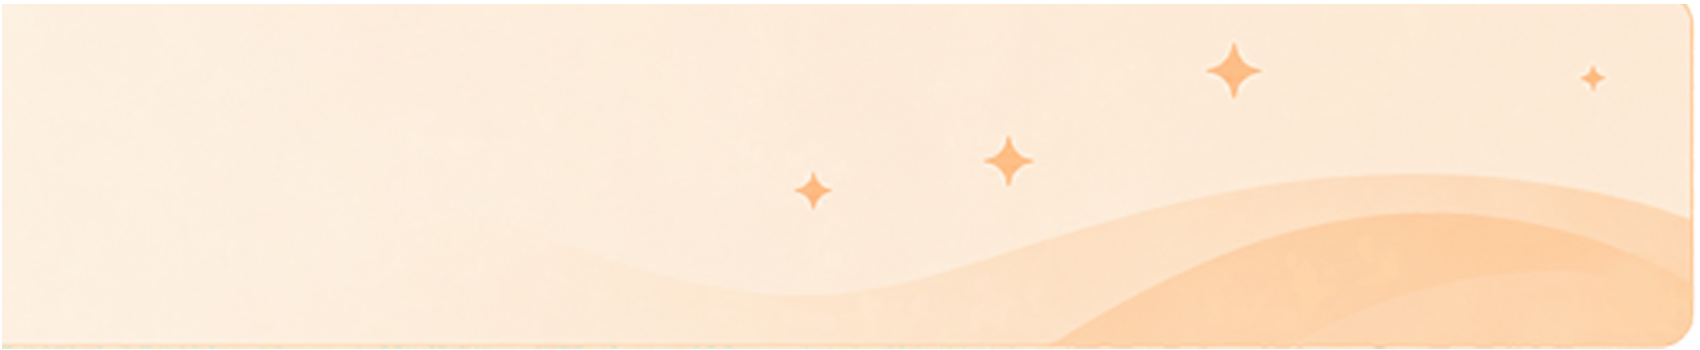
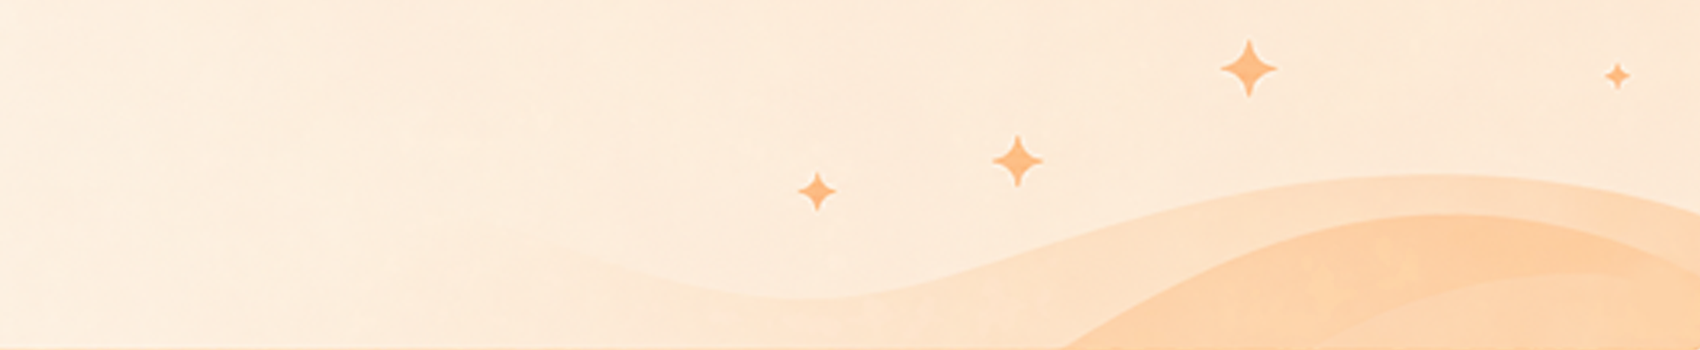
优化会员中心——修复年度会员中心

diff --git a/src/FocusApp.Desktop/Views/MembershipCenterModal.xaml b/src/FocusApp.Desktop/Views/MembershipCenterModal.xaml
@@ -51,6 +51,14 @@
             <Setter Property="FontWeight" Value="Normal" />
             <Setter Property="Foreground" Value="{DynamicResource TextSecondary}" />
         </Style>
+
+        <Style x:Key="AnnualMembershipBenefitCard" TargetType="{x:Type Border}">
+            <Setter Property="Margin" Value="4" />
+            <Setter Property="Background" Value="{DynamicResource SurfacePrimary}" />
+            <Setter Property="BorderBrush" Value="{DynamicResource BorderPrimary}" />
+            <Setter Property="BorderThickness" Value="1" />
+            <Setter Property="CornerRadius" Value="11" />
+        </Style>
     </UserControl.Resources>
 
     <Border Background="{DynamicResource SurfacePrimary}"
@@ -61,7 +69,18 @@
             <DropShadowEffect BlurRadius="28" Direction="270" Opacity="0.12" ShadowDepth="4" Color="#A9937D" />
         </Border.Effect>
 
-        <Grid Margin="28,14,28,18">
+        <Grid>
+        <Grid x:Name="LifetimeMembershipContent" Margin="28,14,28,18">
+            <Grid.Style>
+                <Style TargetType="{x:Type Grid}">
+                    <Setter Property="Visibility" Value="Collapsed" />
+                    <Style.Triggers>
+                        <DataTrigger Binding="{Binding IsLifetime}" Value="True">
+                            <Setter Property="Visibility" Value="Visible" />
+                        </DataTrigger>
+                    </Style.Triggers>
+                </Style>
+            </Grid.Style>
             <Grid.RowDefinitions>
                 <RowDefinition Height="32" />
                 <RowDefinition Height="118" />
@@ -211,6 +230,171 @@
                     </Grid>
                 </Border>
             </UniformGrid>
+        </Grid>
+
+        <Grid x:Name="AnnualMembershipContent" Margin="36,12">
+            <Grid.Style>
+                <Style TargetType="{x:Type Grid}">
+                    <Setter Property="Visibility" Value="Collapsed" />
+                    <Style.Triggers>
+                        <DataTrigger Binding="{Binding IsAnnual}" Value="True">
+                            <Setter Property="Visibility" Value="Visible" />
+                        </DataTrigger>
+                    </Style.Triggers>
+                </Style>
+            </Grid.Style>
+            <Grid.RowDefinitions>
+                <RowDefinition Height="34" />
+                <RowDefinition Height="88" />
+                <RowDefinition Height="Auto" />
+                <RowDefinition Height="28" />
+                <RowDefinition Height="*" />
+            </Grid.RowDefinitions>
+
+            <TextBlock VerticalAlignment="Center"
+                       FontSize="17"
+                       FontWeight="SemiBold"
+                       Foreground="{DynamicResource TextPrimary}"
+                       Text="{DynamicResource MembershipCenterTitle}" />
+
+            <Border Grid.Row="1"
+                    Margin="0,2,0,0"
+                    Background="{DynamicResource AccentTint}"
+                    BorderBrush="#FFE1C4"
+                    BorderThickness="1"
+                    CornerRadius="14">
+                <Grid Margin="18,0">
+                    <Grid.ColumnDefinitions>
+                        <ColumnDefinition Width="72" />
+                        <ColumnDefinition />
+                        <ColumnDefinition Width="170" />
+                    </Grid.ColumnDefinitions>
+
+                    <Border Width="48" Height="48" Background="#FFF3E5" CornerRadius="24">
+                        <TextBlock HorizontalAlignment="Center"
+                                   VerticalAlignment="Center"
+                                   FontFamily="Segoe UI Symbol"
+                                   FontSize="31"
+                                   Foreground="{DynamicResource AccentPrimary}"
+                                   Text="♛" />
+                    </Border>
+
+                    <StackPanel Grid.Column="1" Margin="9,0,0,0" VerticalAlignment="Center">
+                        <TextBlock FontSize="15"
+                                   FontWeight="Medium"
+                                   Foreground="{DynamicResource TextPrimary}"
+                                   Text="{DynamicResource MembershipAnnualTitle}" />
+                        <TextBlock Margin="0,6,0,0"
+                                   FontSize="12"
+                                   Foreground="{DynamicResource TextSecondary}"
+                                   Text="{DynamicResource MembershipUnlockedHint}" />
+                    </StackPanel>
+
+                    <StackPanel Grid.Column="2" HorizontalAlignment="Right" VerticalAlignment="Center">
+                        <TextBlock HorizontalAlignment="Center"
+                                   FontSize="12"
+                                   Foreground="{DynamicResource TextSecondary}"
+                                   Text="{DynamicResource MembershipExpiryLabel}" />
+                        <TextBlock Margin="0,5,0,0"
+                                   FontSize="13"
+                                   FontWeight="Medium"
+                                   Foreground="{DynamicResource TextPrimary}"
+                                   Text="{DynamicResource MembershipExpiryDate}" />
+                    </StackPanel>
+                </Grid>
+            </Border>
+
+            <Border Grid.Row="2"
+                    Height="58"
+                    Margin="0,8,0,0"
+                    Background="{DynamicResource SurfacePrimary}"
+                    BorderBrush="{DynamicResource BorderPrimary}"
+                    BorderThickness="1"
+                    CornerRadius="13">
+                <Grid Margin="17,0">
+                    <Grid.ColumnDefinitions>
+                        <ColumnDefinition Width="54" />
+                        <ColumnDefinition />
+                        <ColumnDefinition Width="1" />
+                        <ColumnDefinition Width="146" />
+                    </Grid.ColumnDefinitions>
+                    <Border Width="36" Height="36" Background="#FFF3E5" CornerRadius="18">
+                        <TextBlock HorizontalAlignment="Center"
+                                   VerticalAlignment="Center"
+                                   FontFamily="Segoe MDL2 Assets"
+                                   FontSize="21"
+                                   Foreground="{DynamicResource AccentPrimary}"
+                                   Text="&#xE823;" />
+                    </Border>
+                    <StackPanel Grid.Column="1" VerticalAlignment="Center" Orientation="Horizontal">
+                        <TextBlock VerticalAlignment="Center" FontSize="13" Foreground="{DynamicResource TextSecondary}" Text="{DynamicResource MembershipDaysPrefix}" />
+                        <TextBlock Margin="18,0,0,0" VerticalAlignment="Center" FontSize="20" FontWeight="SemiBold" Foreground="{DynamicResource AccentPrimary}" Text="{DynamicResource MembershipDaysValue}" />
+                        <TextBlock Margin="8,7,0,0" VerticalAlignment="Center" FontSize="12" Foreground="{DynamicResource TextSecondary}" Text="{DynamicResource MembershipDaysUnit}" />
+                    </StackPanel>
+                    <Border Grid.Column="2" Height="42" VerticalAlignment="Center" Background="{DynamicResource BorderPrimary}" />
+                    <Button Grid.Column="3"
+                            Width="126"
+                            Height="36"
+                            HorizontalAlignment="Right"
+                            AutomationProperties.Name="{DynamicResource MembershipRenew}"
+                            Command="{Binding RenewCommand}">
+                        <Button.Template>
+                            <ControlTemplate TargetType="{x:Type Button}">
+                                <Border x:Name="Root" Background="{DynamicResource FocusButtonBackground}" CornerRadius="10">
+                                    <ContentPresenter HorizontalAlignment="Center" VerticalAlignment="Center" />
+                                </Border>
+                                <ControlTemplate.Triggers>
+                                    <Trigger Property="IsMouseOver" Value="True"><Setter TargetName="Root" Property="Background" Value="{DynamicResource FocusButtonHoverBackground}" /></Trigger>
+                                    <Trigger Property="IsPressed" Value="True"><Setter TargetName="Root" Property="Background" Value="{DynamicResource FocusButtonPressedBackground}" /></Trigger>
+                                </ControlTemplate.Triggers>
+                            </ControlTemplate>
+                        </Button.Template>
+                        <TextBlock FontSize="13" FontWeight="Medium" Foreground="{DynamicResource WhiteText}">
+                            <TextBlock.Style>
+                                <Style TargetType="{x:Type TextBlock}">
+                                    <Setter Property="Text" Value="{DynamicResource MembershipRenew}" />
+                                    <Style.Triggers>
+                                        <DataTrigger Binding="{Binding HasRenewFeedback}" Value="True">
+                                            <Setter Property="Text" Value="{DynamicResource MembershipRenewFeedback}" />
+                                            <Setter Property="FontSize" Value="12" />
+                                        </DataTrigger>
+                                    </Style.Triggers>
+                                </Style>
+                            </TextBlock.Style>
+                        </TextBlock>
+                    </Button>
+                </Grid>
+            </Border>
+
+            <TextBlock Grid.Row="3"
+                       Margin="0,8,0,0"
+                       VerticalAlignment="Center"
+                       FontSize="15"
+                       FontWeight="Medium"
+                       Foreground="{DynamicResource TextPrimary}"
+                       Text="{DynamicResource MembershipBenefitsTitle}" />
+
+            <UniformGrid Grid.Row="4" Height="160" Margin="0,2,0,0" VerticalAlignment="Top" Columns="3" Rows="2">
+                <Border Style="{StaticResource AnnualMembershipBenefitCard}">
+                    <Grid Margin="12,7"><Grid.ColumnDefinitions><ColumnDefinition Width="42" /><ColumnDefinition /></Grid.ColumnDefinitions><Border Width="36" Height="36" Background="#FFF3E5" CornerRadius="18"><TextBlock HorizontalAlignment="Center" VerticalAlignment="Center" FontFamily="Segoe MDL2 Assets" FontSize="19" Foreground="{DynamicResource AccentPrimary}" Text="&#xE72E;" /></Border><StackPanel Grid.Column="1" VerticalAlignment="Center"><TextBlock FontSize="13" FontWeight="Medium" Foreground="{DynamicResource TextPrimary}" Text="{DynamicResource MembershipBenefitForced}" /><TextBlock Margin="0,5,0,0" FontSize="12" LineHeight="18" Foreground="{DynamicResource TextSecondary}" Text="{DynamicResource MembershipBenefitForcedHint}" /></StackPanel></Grid>
+                </Border>
+                <Border Style="{StaticResource AnnualMembershipBenefitCard}">
+                    <Grid Margin="12,7"><Grid.ColumnDefinitions><ColumnDefinition Width="42" /><ColumnDefinition /></Grid.ColumnDefinitions><Border Width="36" Height="36" Background="#FFF3E5" CornerRadius="18"><TextBlock HorizontalAlignment="Center" VerticalAlignment="Center" FontFamily="Segoe MDL2 Assets" FontSize="19" Foreground="{DynamicResource AccentPrimary}" Text="&#xEA18;" /></Border><StackPanel Grid.Column="1" VerticalAlignment="Center"><TextBlock FontSize="13" FontWeight="Medium" Foreground="{DynamicResource TextPrimary}" Text="{DynamicResource MembershipBenefitBlocking}" /><TextBlock Margin="0,5,0,0" FontSize="12" LineHeight="18" Foreground="{DynamicResource TextSecondary}" Text="{DynamicResource MembershipBenefitBlockingHint}" /></StackPanel></Grid>
+                </Border>
+                <Border Style="{StaticResource AnnualMembershipBenefitCard}">
+                    <Grid Margin="12,7"><Grid.ColumnDefinitions><ColumnDefinition Width="42" /><ColumnDefinition /></Grid.ColumnDefinitions><Border Width="36" Height="36" Background="#FFF3E5" CornerRadius="18"><TextBlock HorizontalAlignment="Center" VerticalAlignment="Center" FontFamily="Segoe MDL2 Assets" FontSize="19" Foreground="{DynamicResource AccentPrimary}" Text="&#xE8A5;" /></Border><StackPanel Grid.Column="1" VerticalAlignment="Center"><TextBlock FontSize="13" FontWeight="Medium" Foreground="{DynamicResource TextPrimary}" Text="{DynamicResource MembershipBenefitExport}" /><TextBlock Margin="0,5,0,0" FontSize="12" LineHeight="18" Foreground="{DynamicResource TextSecondary}" Text="{DynamicResource MembershipBenefitExportHint}" /></StackPanel></Grid>
+                </Border>
+                <Border Style="{StaticResource AnnualMembershipBenefitCard}">
+                    <Grid Margin="12,7"><Grid.ColumnDefinitions><ColumnDefinition Width="42" /><ColumnDefinition /></Grid.ColumnDefinitions><Border Width="36" Height="36" Background="#FFF3E5" CornerRadius="18"><TextBlock HorizontalAlignment="Center" VerticalAlignment="Center" FontFamily="Segoe MDL2 Assets" FontSize="19" Foreground="{DynamicResource AccentPrimary}" Text="&#xE9D2;" /></Border><StackPanel Grid.Column="1" VerticalAlignment="Center"><TextBlock FontSize="13" FontWeight="Medium" Foreground="{DynamicResource TextPrimary}" Text="{DynamicResource MembershipBenefitStatistics}" /><TextBlock Margin="0,5,0,0" FontSize="12" LineHeight="18" Foreground="{DynamicResource TextSecondary}" Text="{DynamicResource MembershipBenefitStatisticsHint}" /></StackPanel></Grid>
+                </Border>
+                <Border Style="{StaticResource AnnualMembershipBenefitCard}">
+                    <Grid Margin="12,7"><Grid.ColumnDefinitions><ColumnDefinition Width="42" /><ColumnDefinition /></Grid.ColumnDefinitions><Border Width="36" Height="36" Background="#FFF3E5" CornerRadius="18"><TextBlock HorizontalAlignment="Center" VerticalAlignment="Center" FontFamily="Segoe MDL2 Assets" FontSize="19" Foreground="{DynamicResource AccentPrimary}" Text="&#xE790;" /></Border><StackPanel Grid.Column="1" VerticalAlignment="Center"><TextBlock FontSize="13" FontWeight="Medium" Foreground="{DynamicResource TextPrimary}" Text="{DynamicResource MembershipBenefitThemes}" /><TextBlock Margin="0,5,0,0" FontSize="12" LineHeight="18" Foreground="{DynamicResource TextSecondary}" Text="{DynamicResource MembershipBenefitThemesHint}" /></StackPanel></Grid>
+                </Border>
+                <Border Style="{StaticResource AnnualMembershipBenefitCard}">
+                    <Grid Margin="12,7"><Grid.ColumnDefinitions><ColumnDefinition Width="42" /><ColumnDefinition /></Grid.ColumnDefinitions><Border Width="36" Height="36" Background="#FFF3E5" CornerRadius="18"><TextBlock HorizontalAlignment="Center" VerticalAlignment="Center" FontFamily="Segoe MDL2 Assets" FontSize="19" Foreground="{DynamicResource AccentPrimary}" Text="&#xE753;" /></Border><StackPanel Grid.Column="1" VerticalAlignment="Center"><TextBlock FontSize="13" FontWeight="Medium" Foreground="{DynamicResource TextPrimary}" Text="{DynamicResource MembershipBenefitSync}" /><TextBlock Margin="0,5,0,0" FontSize="12" LineHeight="18" Foreground="{DynamicResource TextSecondary}" Text="{DynamicResource MembershipBenefitSyncHint}" /></StackPanel></Grid>
+                </Border>
+            </UniformGrid>
+        </Grid>
         </Grid>
     </Border>
 </UserControl>

diff --git a/tests/FocusApp.Tests/Desktop/MembershipCenterPresentationTests.cs b/tests/FocusApp.Tests/Desktop/MembershipCenterPresentationTests.cs
@@ -31,7 +31,10 @@ public sealed class MembershipCenterPresentationTests
         AssertImage(view, "MemberCenter_Crown.png", "54", "54");
         AssertImage(view, "MenberCenter_check.png", "20", "20");
 
-        var benefits = Assert.Single(view.Descendants(Presentation + "UniformGrid"));
+        var lifetimeContent = FindNamedElement(view, "LifetimeMembershipContent");
+        AssertVisibilityTrigger(lifetimeContent, "IsLifetime");
+
+        var benefits = Assert.Single(lifetimeContent.Descendants(Presentation + "UniformGrid"));
         Assert.Equal("3", (string?)benefits.Attribute("Columns"));
         Assert.Equal("2", (string?)benefits.Attribute("Rows"));
         Assert.Equal("172", (string?)benefits.Attribute("Height"));
@@ -56,6 +59,41 @@ public sealed class MembershipCenterPresentationTests
     }
 
     [Fact]
+    public void AnnualView_RestoresExpiryDaysRenewalAndOriginalBenefitLayout()
+    {
+        var repositoryRoot = FindRepositoryRoot();
+        var view = XDocument.Load(Path.Combine(
+            repositoryRoot, "src", "FocusApp.Desktop", "Views", "MembershipCenterModal.xaml"));
+        var annualContent = FindNamedElement(view, "AnnualMembershipContent");
+
+        AssertVisibilityTrigger(annualContent, "IsAnnual");
+        Assert.Contains(annualContent.Descendants(Presentation + "TextBlock"), element =>
+            (string?)element.Attribute("Text") == "{DynamicResource MembershipAnnualTitle}");
+        Assert.Contains(annualContent.Descendants(Presentation + "TextBlock"), element =>
+            (string?)element.Attribute("Text") == "{DynamicResource MembershipExpiryDate}");
+        Assert.Contains(annualContent.Descendants(Presentation + "TextBlock"), element =>
+            (string?)element.Attribute("Text") == "{DynamicResource MembershipDaysValue}");
+
+        var renewButton = Assert.Single(annualContent.Descendants(Presentation + "Button"));
+        Assert.Equal("{Binding RenewCommand}", (string?)renewButton.Attribute("Command"));
+        Assert.Equal(
+            "{DynamicResource MembershipRenew}",
+            (string?)renewButton.Attribute("AutomationProperties.Name"));
+        Assert.Contains(renewButton.Descendants(Presentation + "DataTrigger"), trigger =>
+            (string?)trigger.Attribute("Binding") == "{Binding HasRenewFeedback}" &&
+            (string?)trigger.Attribute("Value") == "True");
+
+        var benefits = Assert.Single(annualContent.Descendants(Presentation + "UniformGrid"));
+        Assert.Equal("3", (string?)benefits.Attribute("Columns"));
+        Assert.Equal("2", (string?)benefits.Attribute("Rows"));
+        Assert.Equal("160", (string?)benefits.Attribute("Height"));
+        var cards = benefits.Elements(Presentation + "Border").ToArray();
+        Assert.Equal(6, cards.Length);
+        Assert.All(cards, card =>
+            Assert.Equal("{StaticResource AnnualMembershipBenefitCard}", (string?)card.Attribute("Style")));
+    }
+
+    [Fact]
     public void ProvidedArtwork_IsRegisteredAsDesktopResources()
     {
         var project = XDocument.Load(Path.Combine(
@@ -76,6 +114,23 @@ public sealed class MembershipCenterPresentationTests
         Assert.Equal(width, (string?)image.Attribute("Width"));
         Assert.Equal(height, (string?)image.Attribute("Height"));
         Assert.Equal("Uniform", (string?)image.Attribute("Stretch"));
+    }
+
+    private static XElement FindNamedElement(XContainer view, string name)
+    {
+        return Assert.Single(view.Descendants().Where(element =>
+            (string?)element.Attribute(Xaml + "Name") == name));
+    }
+
+    private static void AssertVisibilityTrigger(XElement content, string propertyName)
+    {
+        var trigger = Assert.Single(content
+            .Descendants(Presentation + "DataTrigger")
+            .Where(element => (string?)element.Attribute("Binding") == $"{{Binding {propertyName}}}"));
+        Assert.Equal("True", (string?)trigger.Attribute("Value"));
+        var visibilitySetter = Assert.Single(trigger.Elements(Presentation + "Setter").Where(element =>
+            (string?)element.Attribute("Property") == "Visibility"));
+        Assert.Equal("Visible", (string?)visibilitySetter.Attribute("Value"));
     }
 
     private static string FindRepositoryRoot()

diff --git a/DEV_LOG.md b/DEV_LOG.md
@@ -103,7 +103,7 @@
 > 有效变更持续追加、不删除；每条严格两行且不留空行，同一任务只写一条。
 
 - **2026-09-01｜会员中心｜UI 重构**
-  永久会员静态弹窗按设计稿重构横幅与六项权益卡片；固定 680×400，业务逻辑不变。验证：定向 6/6。
+  年度与永久会员恢复独立条件界面：永久会员保留设计稿横幅与权益卡片，年度会员恢复到期、剩余天数及续费区域；固定 680×400，身份与入口逻辑不变。验证：身份路由及会员中心定向 10/10。
 - **2026-08-31｜目标选择｜空状态 UI**
   无目标时隐藏任务添加入口并展示居中插画与引导文案，创建首个目标后恢复原任务界面；未改弹窗尺寸及业务流程。验证：定向 24/24。
 - **2026-08-31｜首页专注时长｜Bug 修复**
